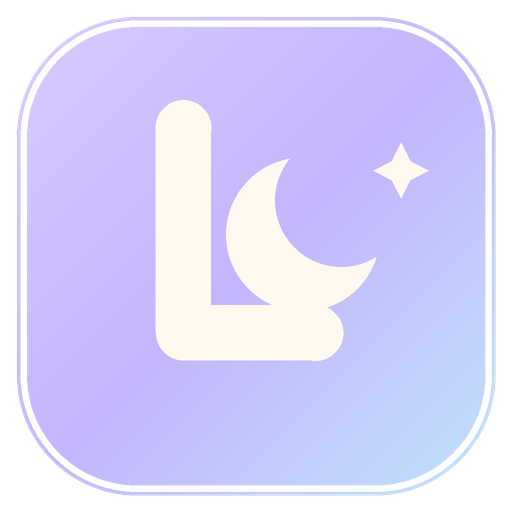
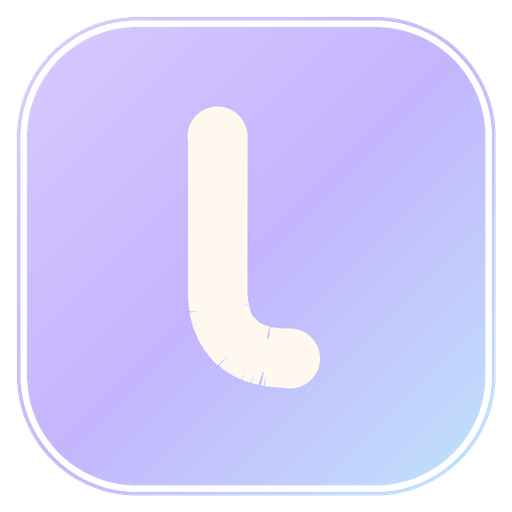
brand: retire the crescent mark for the plain lullaby wordmark
Finalize the identity as a plain lowercase "lullaby" wordmark in lavender
Nunito ExtraBold (#8b6ff0), with a plain lowercase "l" monogram reserved for
tiny square icon slots (favicon/installer/app icon). Retire the old
"L cradling a crescent moon" mark everywhere.

- assets/brand: lullaby-mark.svg is now the wordmark <text>; lullaby-icon.svg
  and render_icons.py draw the cream "l" monogram on the lavender->sky tile
  (regenerated lullaby.ico + 256/512 PNGs).
- offline_docs/generate_offline_docs.py: header shows a lavender "lullaby"
  wordmark span instead of the inline crescent SVG; favicon stays the
  l-monogram icon.
- installer/render_installer_art.py: banner/dialog bitmaps draw the "l"
  monogram (regenerated at 493x58 and 493x312).
- docs: brand_guidelines.md, distribution_design.md, repository_map.md updated
  to the wordmark-only identity; crescent language removed.

Changed region(s): [[0.2812, 0.1875, 0.75, 0.7812], [0.7188, 0.2812, 0.8438, 0.375]]

diff --git a/assets/brand/render_icons.py b/assets/brand/render_icons.py
@@ -1,8 +1,8 @@
 #!/usr/bin/env python3
 """Render the Lullaby brand raster icons from the canonical geometry.
 
-Draws the filled app icon (the lavender "L cradling a crescent moon" in cream on
-a soft pastel tile) at high resolution, then downsamples to every size a Windows
+Draws the filled app icon (a plain lowercase "l" monogram in cream on a soft
+pastel tile) at high resolution, then downsamples to every size a Windows
 app/installer/favicon needs and writes a multi-size ``.ico`` plus PNGs.
 
 Geometry matches ``lullaby-icon.svg`` (a 120-unit design space). Run from anywhere:
@@ -52,6 +52,31 @@ def sc(v: float) -> float:
     return v * S
 
 
+def quad_bezier(p0, p1, p2, steps: int = 24) -> list[tuple[float, float]]:
+    """Sample a quadratic Bezier curve into a polyline (design-space points)."""
+    pts = []
+    for i in range(steps + 1):
+        t = i / steps
+        u = 1 - t
+        x = u * u * p0[0] + 2 * u * t * p1[0] + t * t * p2[0]
+        y = u * u * p0[1] + 2 * u * t * p1[1] + t * t * p2[1]
+        pts.append((x, y))
+    return pts
+
+
+# Canonical "l" monogram geometry (matches lullaby-icon.svg: M51 32 V68 Q51 84 68 84).
+MONO_TOP = (51.0, 32.0)      # top of the stem (open, rounded end)
+MONO_KNEE = (51.0, 68.0)     # where the stem meets the foot curve
+MONO_CTRL = (51.0, 84.0)     # quadratic control point
+MONO_END = (68.0, 84.0)      # foot tip (open, rounded end)
+MONO_W = 14.0                # stroke width in design units (matches the SVG)
+
+
+def monogram_points() -> list[tuple[float, float]]:
+    """The full "l" polyline: vertical stem, then the curved foot."""
+    return [MONO_TOP, MONO_KNEE] + quad_bezier(MONO_KNEE, MONO_CTRL, MONO_END)
+
+
 def render_master() -> Image.Image:
     img = Image.new("RGBA", (SS, SS), (0, 0, 0, 0))
 
@@ -67,38 +92,16 @@ def render_master() -> Image.Image:
         radius=sc(27.25), outline=(255, 255, 255, 140), width=max(1, round(sc(1.5))),
     )
 
-    # --- mark layer (cream): the L, then the crescent, then the star ---
+    # --- mark layer (cream): the plain lowercase "l" monogram ---
     mark = Image.new("RGBA", (SS, SS), (0, 0, 0, 0))
     d = ImageDraw.Draw(mark)
 
-    # L: rounded polyline (matches stroke-linecap/linejoin = round)
-    lw = round(sc(13))
-    pts = [(sc(43), sc(30)), (sc(43), sc(78)), (sc(74), sc(78))]
+    lw = round(sc(MONO_W))
+    pts = [(sc(x), sc(y)) for (x, y) in monogram_points()]
     d.line(pts, fill=CREAM, width=lw, joint="curve")
     r = lw / 2
-    for (cx, cy) in (pts[0], pts[2]):          # round the two open ends
+    for (cx, cy) in (pts[0], pts[-1]):          # round the two open ends
         d.ellipse([cx - r, cy - r, cx + r, cy + r], fill=CREAM)
-
-    # crescent moon = full disc minus an offset disc (erase via the alpha band).
-    # Lifted into the crook so it clears the L's stroke and reads as a crescent.
-    moon = Image.new("RGBA", (SS, SS), (0, 0, 0, 0))
-    md = ImageDraw.Draw(moon)
-    md.ellipse([sc(71 - 18), sc(55 - 18), sc(71 + 18), sc(55 + 18)], fill=CREAM)
-    alpha = moon.split()[3]
-    ImageDraw.Draw(alpha).ellipse(
-        [sc(80 - 15.5), sc(47 - 15.5), sc(80 + 15.5), sc(47 + 15.5)], fill=0
-    )
-    moon.putalpha(alpha)
-    mark = Image.alpha_composite(mark, moon)
-
-    # four-point twinkle star near the moon
-    d2 = ImageDraw.Draw(mark)
-    cxp, cyp, a, b = sc(94), sc(40), sc(6.5), sc(2.2)
-    d2.polygon(
-        [(cxp, cyp - a), (cxp + b, cyp - b), (cxp + a, cyp), (cxp + b, cyp + b),
-         (cxp, cyp + a), (cxp - b, cyp + b), (cxp - a, cyp), (cxp - b, cyp - b)],
-        fill=CREAM,
-    )
 
     return Image.alpha_composite(img, mark)
 

diff --git a/installer/render_installer_art.py b/installer/render_installer_art.py
@@ -5,9 +5,11 @@ WixUI dialogs use two fixed-size 24-bit BMPs:
     banner.bmp   493x58   top strip on most wizard pages
     dialog.bmp   493x312  full background on the Welcome and Exit pages
 
-Both carry the Lullaby mark (the "L cradling a crescent moon") on a soft pastel
-ground, matching the visual identity. Drawn with shapes only (no font dependency),
-supersampled and downsampled for clean edges. Run:
+Both carry the Lullaby `l` monogram (a rounded vertical stroke with a small foot)
+on a soft pastel ground, matching the visual identity. The full `lullaby` wordmark
+is the identity everywhere a lockup fits; these fixed, compact bitmap slots use the
+`l` monogram, drawn with shapes only (no font dependency), supersampled and
+downsampled for clean edges. Run:
 
     python installer/render_installer_art.py
 """
@@ -38,40 +40,44 @@ def gradient(w: int, h: int) -> Image.Image:
     return small.resize((w, h), Image.LANCZOS)
 
 
+# Canonical "l" monogram geometry (matches assets/brand/lullaby-icon.svg:
+# M51 32 V68 Q51 84 68 84), expressed in the shared 120-unit design space.
+MONO_TOP = (51.0, 32.0)
+MONO_KNEE = (51.0, 68.0)
+MONO_CTRL = (51.0, 84.0)
+MONO_END = (68.0, 84.0)
+MONO_W = 14.0
+
+
+def quad_bezier(p0, p1, p2, steps: int = 24):
+    """Sample a quadratic Bezier curve into a polyline (design-space points)."""
+    pts = []
+    for i in range(steps + 1):
+        t = i / steps
+        u = 1 - t
+        x = u * u * p0[0] + 2 * u * t * p1[0] + t * t * p2[0]
+        y = u * u * p0[1] + 2 * u * t * p1[1] + t * t * p2[1]
+        pts.append((x, y))
+    return pts
+
+
 def draw_mark(img: Image.Image, cx: float, cy: float, size: float, color) -> None:
-    """Draw the L+crescent+star mark centred at (cx, cy), `size` px tall."""
+    """Draw the plain `l` monogram centred at (cx, cy), `size` px tall."""
     s = size / 120.0
     layer = Image.new("RGBA", img.size, (0, 0, 0, 0))
     d = ImageDraw.Draw(layer)
 
     def P(x, y):
-        return (cx + (x - 60) * s, cy + (y - 54) * s)
+        return (cx + (x - 60) * s, cy + (y - 58) * s)
 
-    lw = max(1, round(13 * s))
-    pts = [P(43, 30), P(43, 78), P(74, 78)]
+    lw = max(1, round(MONO_W * s))
+    design_pts = [MONO_TOP, MONO_KNEE] + quad_bezier(MONO_KNEE, MONO_CTRL, MONO_END)
+    pts = [P(x, y) for (x, y) in design_pts]
     d.line(pts, fill=color + (255,), width=lw, joint="curve")
     r = lw / 2
-    for (px, py) in (pts[0], pts[2]):
+    for (px, py) in (pts[0], pts[-1]):          # round the two open ends
         d.ellipse([px - r, py - r, px + r, py + r], fill=color + (255,))
 
-    moon = Image.new("RGBA", img.size, (0, 0, 0, 0))
-    md = ImageDraw.Draw(moon)
-    mx, my = P(71, 55)
-    md.ellipse([mx - 18 * s, my - 18 * s, mx + 18 * s, my + 18 * s], fill=color + (255,))
-    a = moon.split()[3]
-    cxo, cyo = P(80, 47)
-    ImageDraw.Draw(a).ellipse([cxo - 15.5 * s, cyo - 15.5 * s, cxo + 15.5 * s, cyo + 15.5 * s], fill=0)
-    moon.putalpha(a)
-    layer = Image.alpha_composite(layer, moon)
-
-    sx, sy = P(94, 40)
-    ss = 6.5 * s
-    b = 2.2 * s
-    ImageDraw.Draw(layer).polygon(
-        [(sx, sy - ss), (sx + b, sy - b), (sx + ss, sy), (sx + b, sy + b),
-         (sx, sy + ss), (sx - b, sy + b), (sx - ss, sy), (sx - b, sy - b)],
-        fill=color + (255,),
-    )
     img.alpha_composite(layer)
 
 

diff --git a/offline_docs/generate_offline_docs.py b/offline_docs/generate_offline_docs.py
@@ -145,7 +145,8 @@ a:hover{text-decoration:underline}
 a:focus-visible{outline:2px solid var(--lav); outline-offset:2px; border-radius:4px}
 .lb-header{display:flex; align-items:center; gap:16px; padding:1.7rem 2rem;
   background:var(--header-grad); border-bottom:1px solid var(--line);}
-.lb-header .logo{width:54px; height:54px; flex:0 0 auto; color:var(--lav)}
+.lb-header .wordmark{flex:0 0 auto; font-family:var(--sans); font-weight:800;
+  font-size:2.1rem; letter-spacing:-.03em; line-height:1; color:var(--lav)}
 .lb-header h1{margin:0; font-size:1.45rem; font-weight:800; letter-spacing:-.02em}
 .lb-header p{margin:.25rem 0 0; color:var(--muted); font-size:.92rem}
 main{display:grid; grid-template-columns:minmax(13rem,16rem) minmax(0,1fr); gap:2rem;
@@ -170,21 +171,11 @@ td{border:1px solid var(--line); padding:.5rem .6rem; vertical-align:top; text-a
 @media (max-width:760px){ main{display:block} nav{position:static; max-height:none} .lb-header{flex-wrap:wrap} }
 """
 
-# The mark, inline for the header. No `xmlns` attribute (inline HTML does not need
-# it, and it keeps the literal "http://…" of the SVG namespace out of the bundle so
-# the no-remote-dependency verifier stays happy). Colour comes from `currentColor`.
-_HEADER_MARK = (
-    '<svg class="logo" viewBox="0 0 120 120" role="img" aria-label="Lullaby">'
-    '<defs><mask id="lb-hdr-moon"><rect width="120" height="120" fill="black"/>'
-    '<circle cx="71" cy="55" r="18" fill="white"/>'
-    '<circle cx="80" cy="47" r="15.5" fill="black"/></mask></defs>'
-    '<g fill="currentColor">'
-    '<path d="M43 30 V78 H74" fill="none" stroke="currentColor" stroke-width="13" '
-    'stroke-linecap="round" stroke-linejoin="round"/>'
-    '<circle cx="71" cy="55" r="18" mask="url(#lb-hdr-moon)"/>'
-    '<path d="M94 33.5 L96.2 37.8 L100.5 40 L96.2 42.2 L94 46.5 L91.8 42.2 '
-    'L87.5 40 L91.8 37.8 Z"/></g></svg>'
-)
+# The plain wordmark, inline for the header: the lowercase word "lullaby" in the
+# bundled Nunito ExtraBold, tinted lavender (var(--lav)). No pictorial mark. The
+# text carries the whole identity, so there is no SVG namespace URL to keep out of
+# the bundle either.
+_HEADER_MARK = '<span class="wordmark">lullaby</span>'
 
 
 def render_brand() -> tuple[str, str, str]:

diff --git a/documents/brand_guidelines.md b/documents/brand_guidelines.md
@@ -9,32 +9,31 @@ web, ANSI-approximated in the CLI, and a filled icon for OS/app/installer contex
 > meet, solid underneath.
 
 Canonical assets live in [`assets/brand/`](../assets/brand/). Do not re-draw the
-mark by hand; reuse these files or regenerate the raster icons with
+identity by hand; reuse these files or regenerate the raster icons with
 `python assets/brand/render_icons.py`.
 
-## The mark
+## The wordmark
 
-An **"L" cradling a crescent moon** — the letter's corner becomes a cradle and the
-moon rests in it. One motif carries the whole idea (a lullaby: moon + cradle) and it
-stays legible from a hero down to a 16 px favicon.
+The identity is a **plain wordmark**: the lowercase word **"lullaby"**, always
+lowercase, tightly tracked, set in **Nunito ExtraBold (800)** and tinted **lavender
+`#8b6ff0`** (`#c9bafd` on dark grounds). There is no pictorial mark, crescent, or
+star — the word itself is the logo.
 
-- **Primary — one-ink lavender.** [`lullaby-mark.svg`](../assets/brand/lullaby-mark.svg),
-  drawn in **lavender `#8b6ff0`**. Use everywhere: docs headers, the web, inline, and
-  the CLI (as a Unicode/ANSI approximation with the 🌙 glyph). Recolour to plum ink
-  `#372a54` only where a mono, single-ground lockup is needed.
-- **Filled icon — the small-size exception.** [`lullaby-icon.svg`](../assets/brand/lullaby-icon.svg)
-  and [`lullaby.ico`](../assets/brand/lullaby.ico): the mark in **cream** on a soft
-  lavender→sky tile. Use **only** for the app/file icon, favicon, taskbar, and the
-  installer, where a bare line-mark would look faint. Everywhere else stays one-ink.
+- **Primary — the wordmark.** [`lullaby-mark.svg`](../assets/brand/lullaby-mark.svg),
+  the lowercase `lullaby` in lavender `#8b6ff0`. Use everywhere a lockup fits: docs
+  headers, the web, inline, and the CLI (as a lavender/ANSI-tinted lowercase
+  `lullaby`). Recolour to plum ink `#372a54` only where a mono, single-ground lockup
+  is needed.
+- **`l` monogram — the small-size exception.** [`lullaby-icon.svg`](../assets/brand/lullaby-icon.svg)
+  and [`lullaby.ico`](../assets/brand/lullaby.ico): a plain lowercase **`l`** (a
+  rounded vertical stroke with a small foot) in **cream** on a soft lavender→sky
+  tile. Use **only** for tiny square slots — the app/file icon, favicon, taskbar, and
+  the installer — where the full wordmark would be illegible. Everywhere a lockup
+  fits, use the wordmark.
 
-Clear space: keep at least the height of the crescent clear on all sides. Don't
-recolour the mark outside the palette, rotate it, add effects, or stretch it.
-
-## Wordmark
-
-"**lullaby**" — always lowercase, set in **Nunito ExtraBold (800)**, tinted the same
-lavender as the mark (`#8b6ff0`; `#c9bafd` on dark grounds). Pair it with the mark in
-a horizontal or stacked lockup, or use the mark alone in tight spaces.
+Clear space: keep at least the cap-height of the wordmark clear on all sides. Don't
+recolour the wordmark outside the palette, change its typeface or case, rotate it,
+add effects, or stretch it.
 
 ## Palette
 
@@ -71,8 +70,8 @@ cost of clarity.
 
 | File | Use |
 | --- | --- |
-| `assets/brand/lullaby-mark.svg` | Primary one-ink lavender mark |
-| `assets/brand/lullaby-icon.svg` | Filled tile icon (app/favicon/installer) |
+| `assets/brand/lullaby-mark.svg` | Primary lavender `lullaby` wordmark |
+| `assets/brand/lullaby-icon.svg` | Filled `l`-monogram tile icon (app/favicon/installer) |
 | `assets/brand/lullaby.ico` | Multi-size icon 16–256 (exe, installer, favicon) |
 | `assets/brand/lullaby-icon-256.png`, `-512.png` | Raster app icon |
 | `assets/brand/nunito.woff2` | Bundled body/display typeface (OFL) |

diff --git a/documents/distribution_design.md b/documents/distribution_design.md
@@ -62,8 +62,9 @@ Clearance) before first public publish:
 - **Wordmark:** lowercase `lullaby` set in a rounded humanist sans (e.g. Inter /
   Manrope), letter-spaced slightly, to read calm and approachable — matching the
   name's meaning and the "LLM-friendly, gentle to write" positioning.
-- **Mark:** a minimal crescent-moon-over-baseline glyph that doubles as the `.lby`
-  file-type icon. Ships as SVG plus the raster sizes each channel needs:
+- **Icon:** a plain lowercase `l` monogram on the lavender→sky tile that doubles as
+  the `.lby` file-type icon (the full `lullaby` wordmark is the identity everywhere a
+  lockup fits). Ships as SVG plus the raster sizes each channel needs:
   - Windows `.ico` (16/32/48/256 px) for the MSI/EXE and the `.lby` file
     association icon;
   - Linux `.png` set (16–512 px) plus a scalable SVG for the freedesktop icon

diff --git a/documents/repository_map.md b/documents/repository_map.md
@@ -65,7 +65,7 @@ This file maps the repository layout and explains where to find core information
 - `documents/lullaby_input_output.md`: I/O and concurrency model, including files, streams, memory-mapped files, threads, processes, async, multiplexing, IPC, sockets, and performance strategies.
 - `documents/lullaby_error_handling.md`: error model, compact error tokens, compile-time and runtime categories, throw/catch/recovery behavior, diagnostics, and compiler integration.
 - `documents/lullaby_compilation_architecture.md`: compiler architecture from tokenization through semantic analysis, IR, optimization, code generation, linking, and binary verification.
-- `documents/brand_guidelines.md`: Lullaby visual identity — the "L cradling a crescent moon" mark (one-ink lavender primary; filled tile for small-size app/installer/favicon), the soft-pastel palette with hex tokens and roles, Nunito typography, voice and tagline, and the `assets/brand/` asset inventory.
+- `documents/brand_guidelines.md`: Lullaby visual identity — the plain lavender `lullaby` wordmark (with an `l`-monogram filled tile for small-size app/installer/favicon), the soft-pastel palette with hex tokens and roles, Nunito typography, voice and tagline, and the `assets/brand/` asset inventory.
 - `documents/packaging_roadmap.md`: distribution-channel roadmap — the shipped Windows `.msi` and portable archives, plus planned release automation, one-line web installer, winget, Homebrew, Linux `.deb`/`.rpm`, macOS tarball, and code signing, each with its build machinery and the owner-provided prerequisites.
 - `documents/repository_map.md`: this file. Use it as the first navigation aid and update it with repository changes.
 